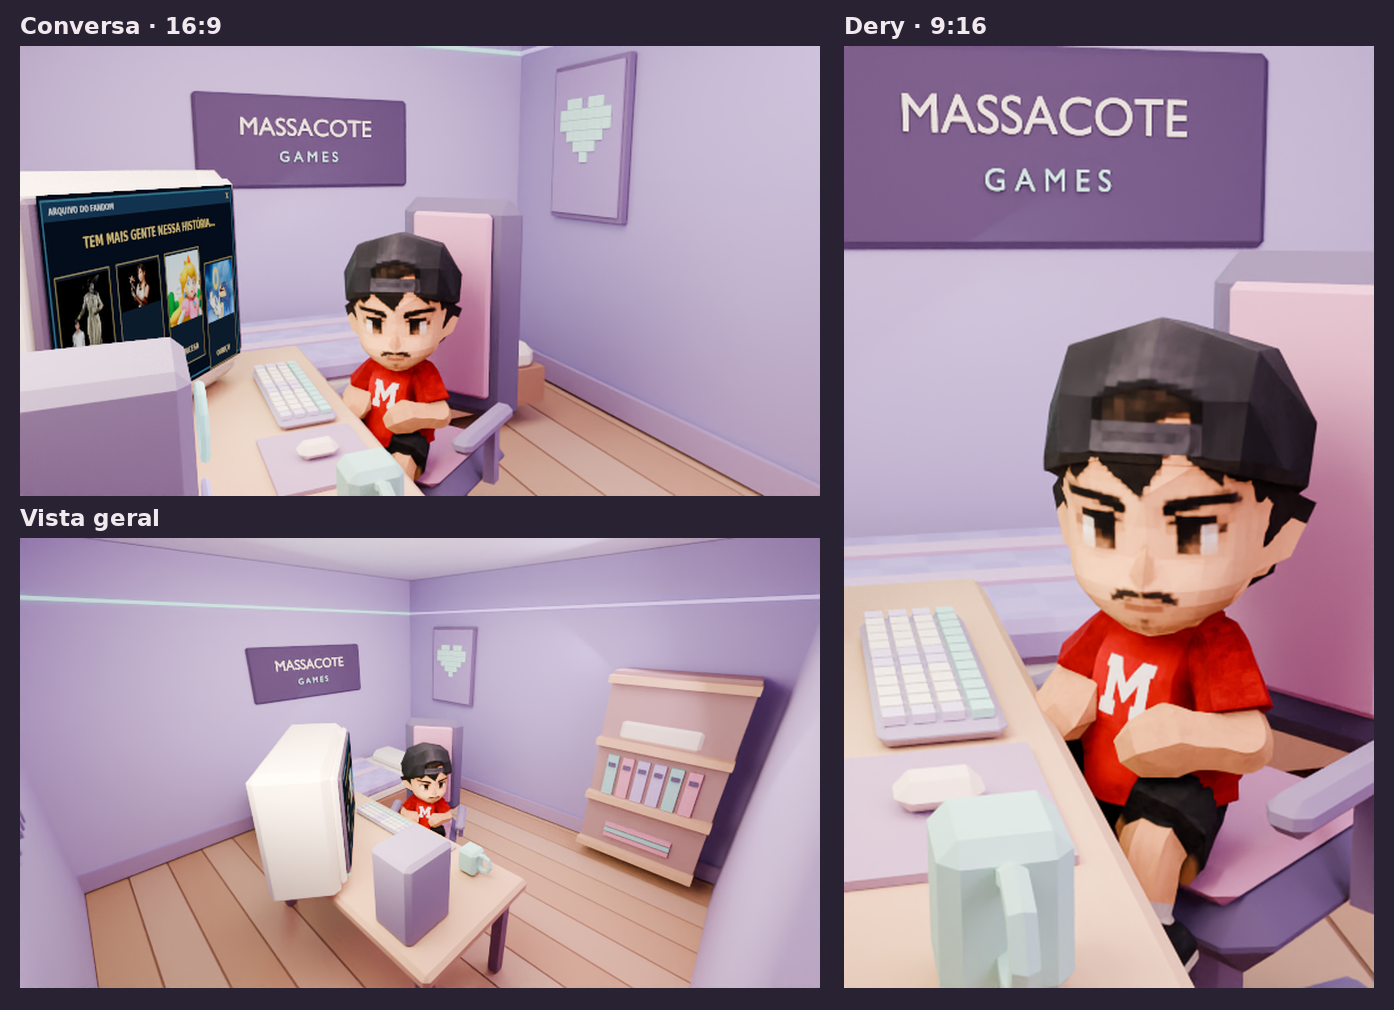
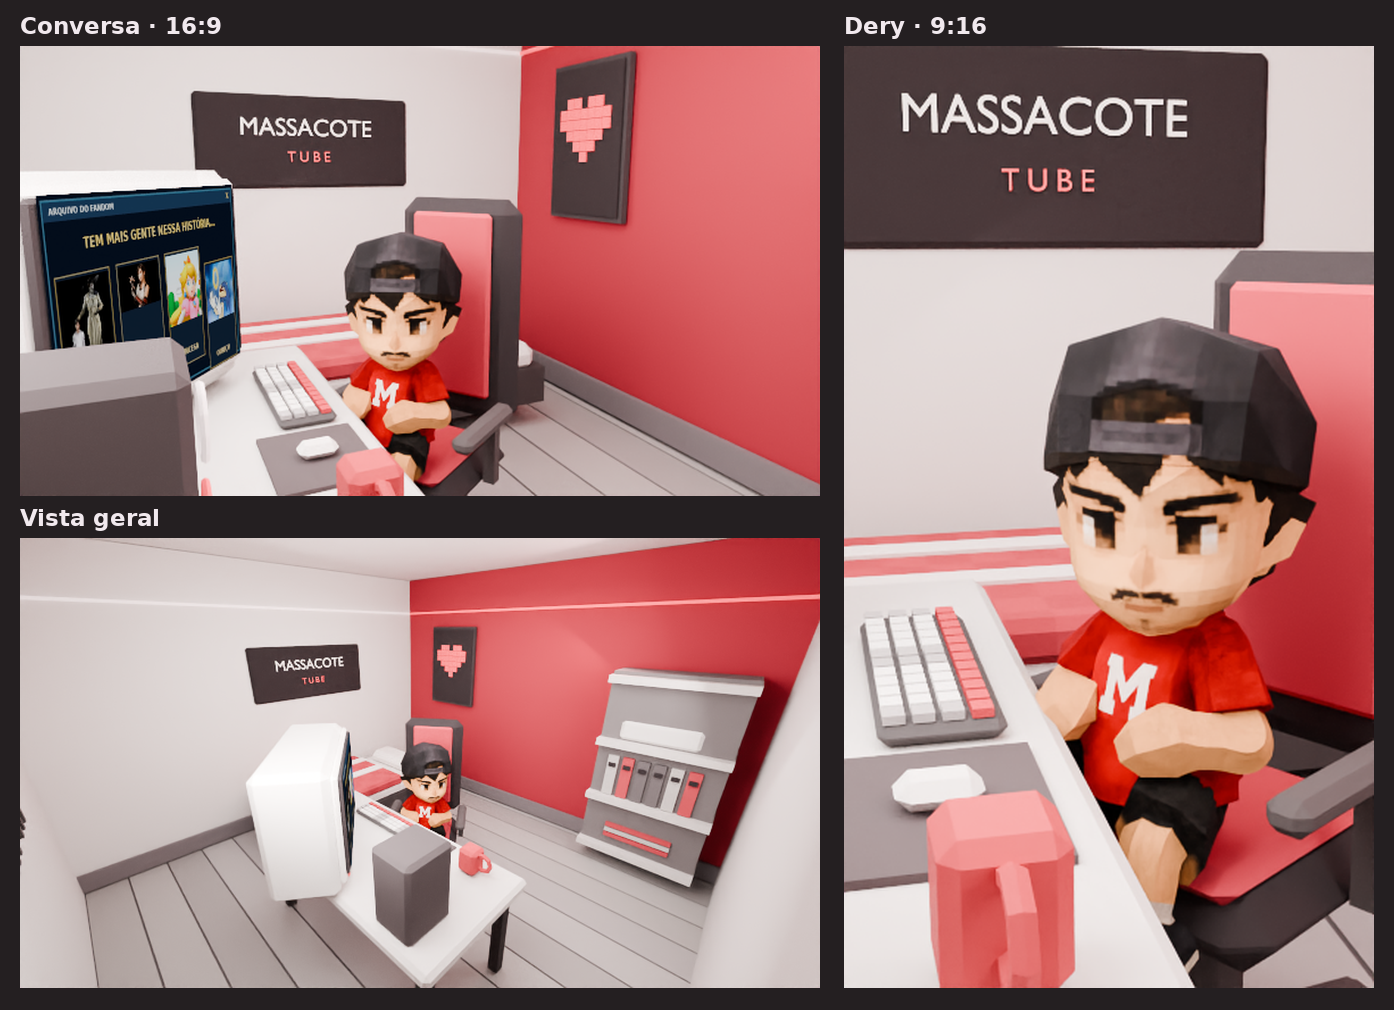
Recolor the chibi room and update the Massacote Tube sign

diff --git a/AGENTS.md b/AGENTS.md
@@ -2,7 +2,7 @@
 
 - **Entregas pelo GitHub:** o usuário pediu que imagens, vídeos, prévias e projetos sejam sempre entregues por links do GitHub no repositório `Deriby/Shorts`. Confira os links antes de enviá-los.
 
-- **Quarto chibi do Massacote Games:** a entrega em `assets/cenarios/quarto_gamer_chibi/` usa o quarto da abertura da série 008, que o usuário confirmou como referência. O acabamento em tons suaves reaproveita madeira e reboco do banco 3D. As 55 malhas do cenário conservam as formas e posições originais. O Blender incorpora o Dery chibi sentado com 50 expressões, quatro câmeras e a tela CRT pronta para trocar a mídia. Há prévias em 16:9 e 9:16 e um comparativo com a abertura original.
+- **Quarto chibi do Massacote Tube:** a entrega em `assets/cenarios/quarto_gamer_chibi/` usa o quarto da abertura da série 008. O usuário pediu a paleta vermelha, preta e branca e o letreiro **MASSACOTE TUBE**. A revisão ajusta os materiais e a iluminação do quarto e conserva as posições, formas, câmeras e pose do Dery originais à versão chibi, com as letras do subtítulo editáveis. O Blender incorpora as 50 expressões, quatro câmeras, texturas do banco 3D e a tela CRT pronta para trocar a mídia. Há prévias em 16:9 e 9:16 e um comparativo com a versão lilás.
 
 - **Revisão 2 das mãos do Massacote 2D:** o usuário rejeitou contagens ambíguas e gestos estranhos no primeiro pacote de nove poses. Em `assets/personagens/massacote_tube_2d/poses_cinco_dedos/` foram corrigidas as poses 04, 05, 12, 15, 20 e 24. As mãos abertas e fechadas em uso foram conferidas no PNG final, com prancha ampliada. A mão de apoio das poses de apontar aparece como pulso parcialmente oculto no bolso. O ZIP atual é `Massacote_2D_5_Dedos_Rev2.zip`. O pedido abrange o banco de poses.
 

diff --git a/assets/cenarios/quarto_gamer_chibi/README.md b/assets/cenarios/quarto_gamer_chibi/README.md
@@ -1,9 +1,9 @@
-# Quarto chibi do Massacote Games
+# Quarto chibi do Massacote Tube
 
-O quarto da abertura de *Personagens que a internet estragou* recebeu um acabamento em lilás, creme, rosa antigo e menta. A planta, os móveis, os objetos e seus lugares vêm da cena original. A madeira e o reboco são texturas do conjunto House, do [banco 3D](../../biblioteca_psx/README.md).
+O quarto da abertura de *Personagens que a internet estragou* usa vermelho, preto e branco, com parede vermelha, CRT branco, móveis em grafite e iluminação quente. O letreiro diz **MASSACOTE TUBE**. A planta, os móveis, os objetos e seus lugares vêm da cena original. A madeira e o reboco são texturas do conjunto House, do [banco 3D](../../biblioteca_psx/README.md).
 
 - [Abrir a prévia em tamanho completo](Quarto_Massacote_Chibi_Previas.png)
-- [Comparar com o quarto original](Quarto_Massacote_Chibi_Comparativo.png)
+- [Comparar com a versão lilás](Quarto_Massacote_Chibi_Comparativo.png)
 - [Baixar o projeto editável no Blender](Quarto_Massacote_Chibi.blend)
 
 ![O quarto com Dery chibi em 16:9, 9:16 e vista geral](Quarto_Massacote_Chibi_Previas.png)
